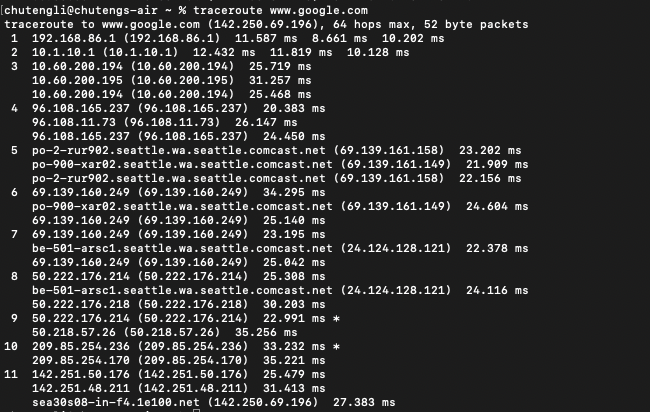
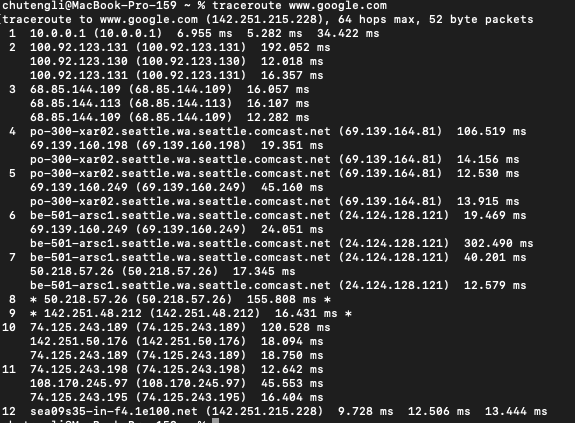
done

Changed region(s): [[0.0, 0.0, 0.9461, 1.0], [0.7096, 0.9612, 0.9461, 0.9903], [0.7983, 0.2913, 0.9165, 0.3204]]

diff --git a/index.html b/index.html
@@ -1,0 +1,12 @@
+<!DOCTYPE html>
+<html>
+  <head>
+    <title>My Server</title>
+    <link rel="icon" type="image/x-icon" href="./favicon.ico">
+  </head>
+  <body>
+
+    <h1>My Webserver</h1>
+
+  </body>
+</html>

diff --git a/README.md b/README.md
@@ -20,19 +20,31 @@
 ## Using tracert
 
 ### For www.amazon.com
-- target ip: 65.8.70.230
+- target IP: 65.8.70.230
 - 22 hops
 - Yes, based on `hop 5 po-2-rur902.seattle.wa.seattle.comcast.net (69.139.161.158)`. My provider is comcast
-- Identify the "class" of IP address for each major step in the trip
+- Class types of major steps
+  - For step 1, it's a class C private IP
+  - For step 2 - 3, it's a class A private IP
+  - For step 4 - 9, it's a class A public IP
+  - For step 10 - 12, it's a class B public IP
+  - For step 13 - 22, it's a class A public IP
 
 ### For www.google.com
 - Target IP: 142.250.69.196
-- 11 hops
+- 12 hops
 - Yes, based on `hop 5 po-2-rur902.seattle.wa.seattle.comcast.net (69.139.161.158)`. My provider is comcast
-- address for each major step in the trip
+- Class types of major steps
+  - For step 1, it's a class A private IP
+  - For step 2 - 8, it's a class A public IP
+  - For step 9, it's a class B Public IP
+  - For step 10 - 12, it's a class A public IP
 
 ### For www.microsoft.com
 - Target IP: 96.216.153.5
 - 9 hops
 - Yes, based on `hop 5 po-2-rur902.seattle.wa.seattle.comcast.net (69.139.161.158)`. My provider is comcast
-- Identify the "class" of IP address for each major step in the trip
+- Class types of major steps
+  - For step 1, it's a class C private IP
+  - For step 2 - 3, it's a class A private IP
+  - For step 4 - 9, it's a class A public IP
